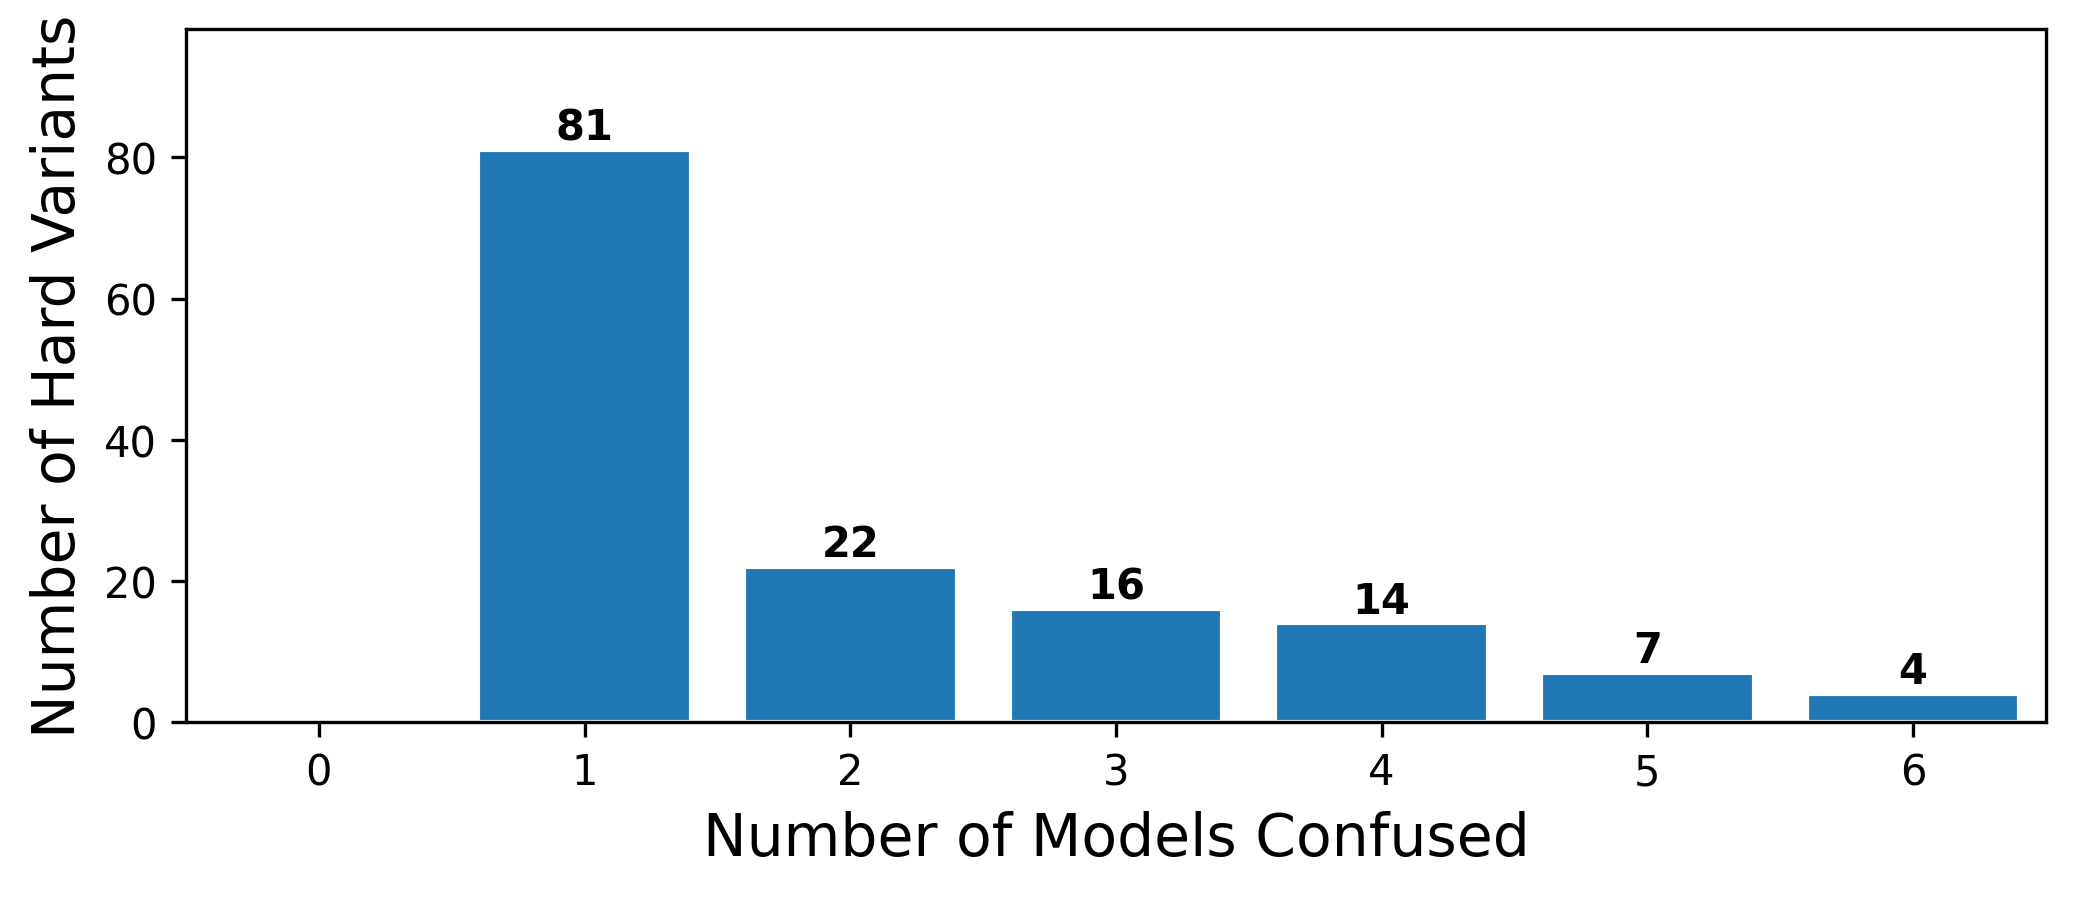
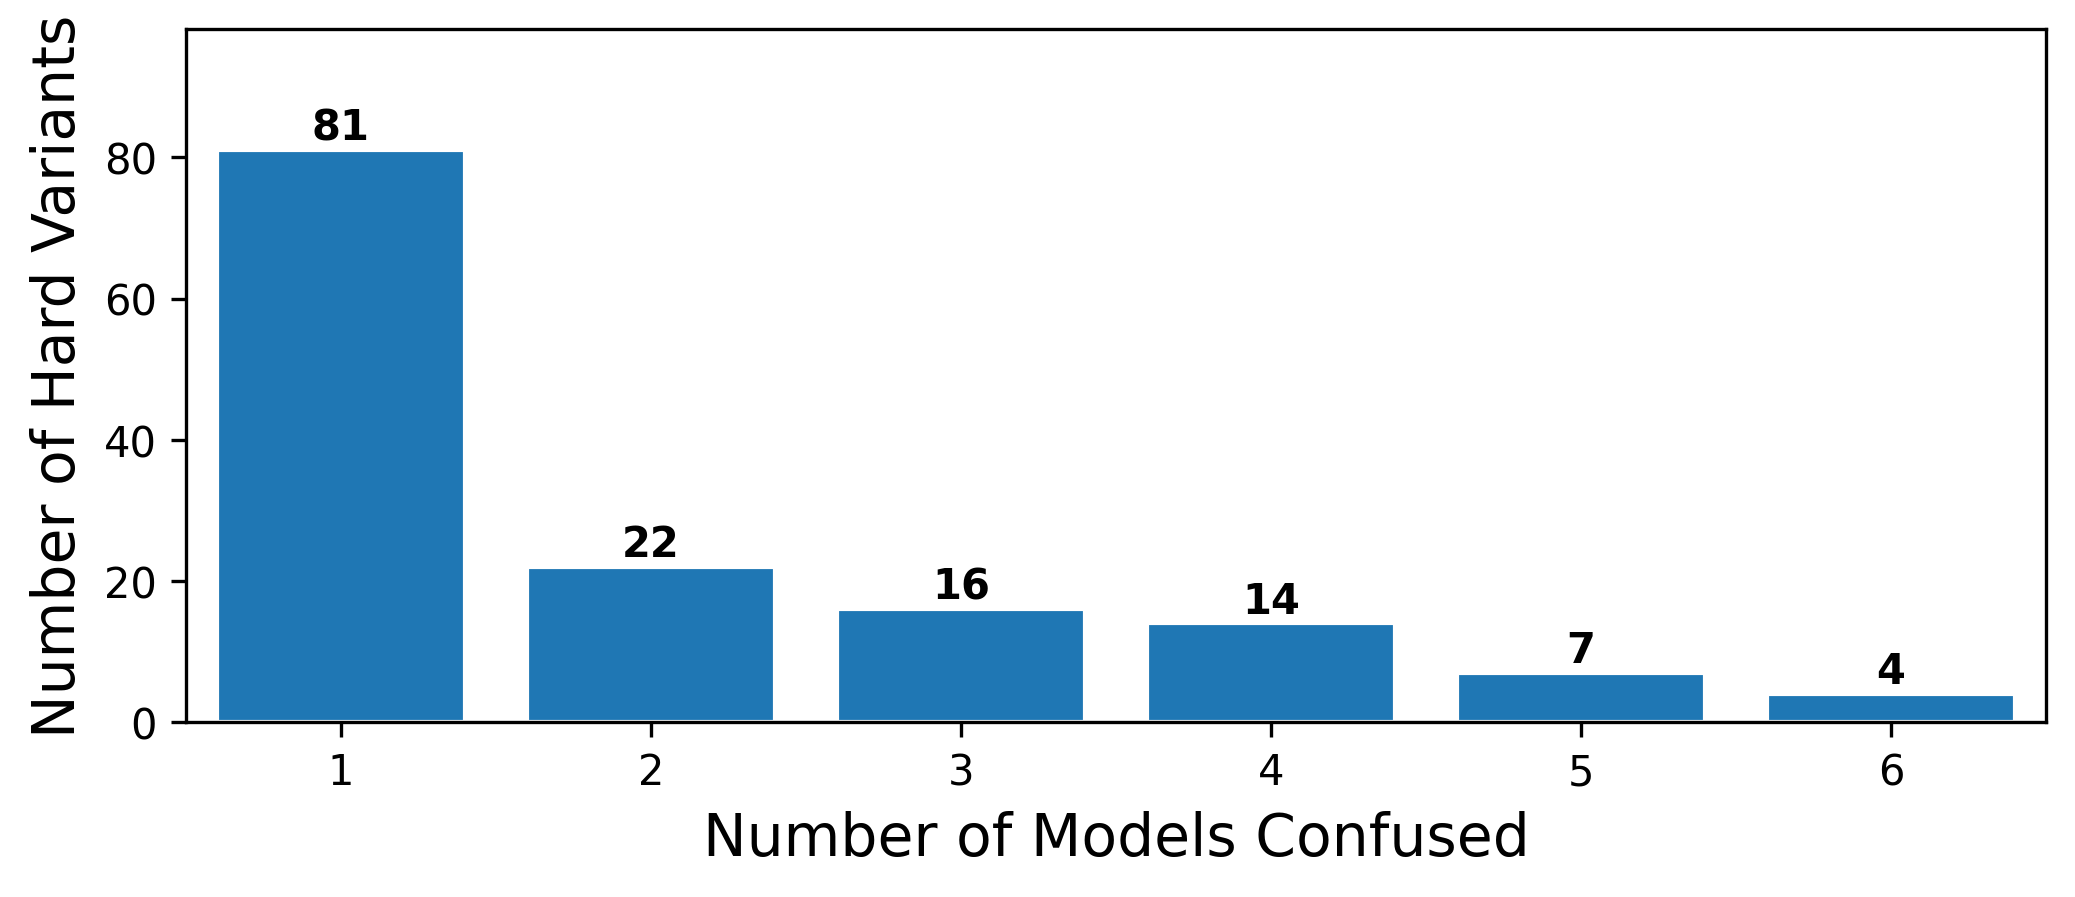
Fix histogram x-axis (remove empty x=0) and regenerate plots at 300 DPI

diff --git a/analysis/plot_confusion_histogram.py b/analysis/plot_confusion_histogram.py
@@ -249,8 +249,8 @@ def plot_histogram(drift_counts: dict, lang: str, prompt_type: str, seed: int, o
 
     ax.set_xlabel("Number of Models Confused", fontsize=LABEL_FONT)
     ax.set_ylabel("Number of Hard Variants",   fontsize=LABEL_FONT)
-    ax.set_xticks(range(0, max_val + 1))
-    ax.set_xlim(-0.5, max_val + 0.5)
+    ax.set_xticks(range(1, max_val + 1))
+    ax.set_xlim(0.5, max_val + 0.5)
     ax.set_ylim(0, max(freq.values()) * 1.15 + 5)
 
     out_dir.mkdir(parents=True, exist_ok=True)
@@ -287,8 +287,8 @@ def plot_side_by_side(drift_en: dict, drift_de: dict, prompt_type: str, seed: in
 
         ax.set_xlabel("Number of Models Confused", fontsize=LABEL_FONT)
         ax.set_ylabel("Number of Hard Variants",   fontsize=LABEL_FONT)
-        ax.set_xticks(range(0, max_val + 1))
-        ax.set_xlim(-0.5, max_val + 0.5)
+        ax.set_xticks(range(1, max_val + 1))
+        ax.set_xlim(0.5, max_val + 0.5)
         ax.set_ylim(0, max(freq.values()) * 1.15 + 5)
         ax.set_title(title, fontsize=LABEL_FONT)
 
